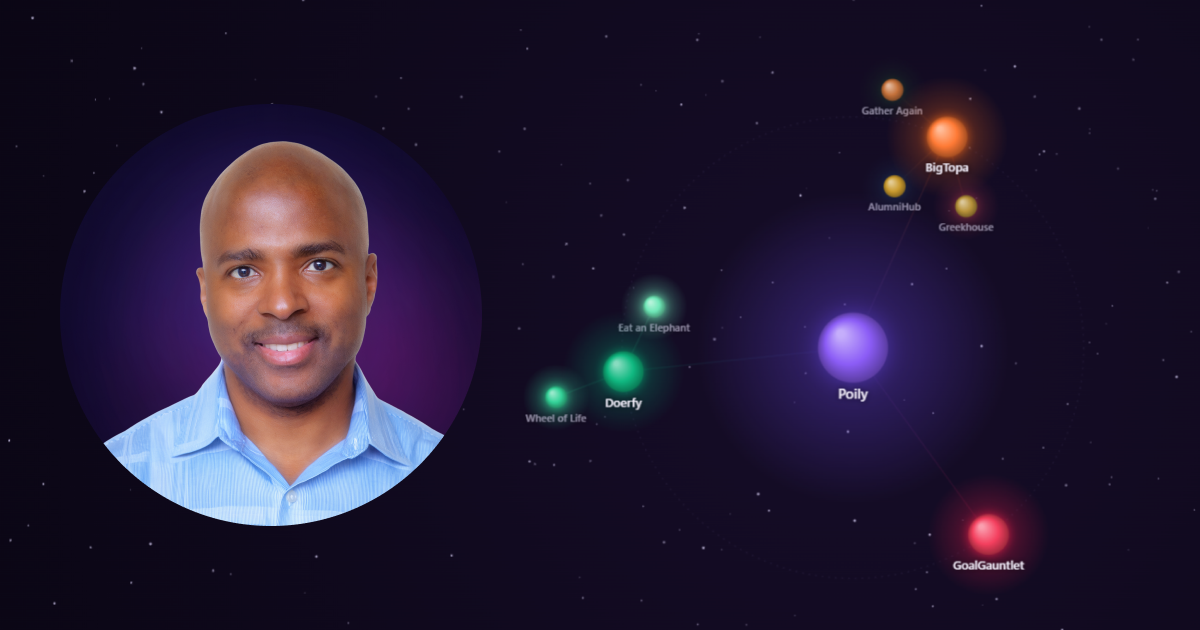
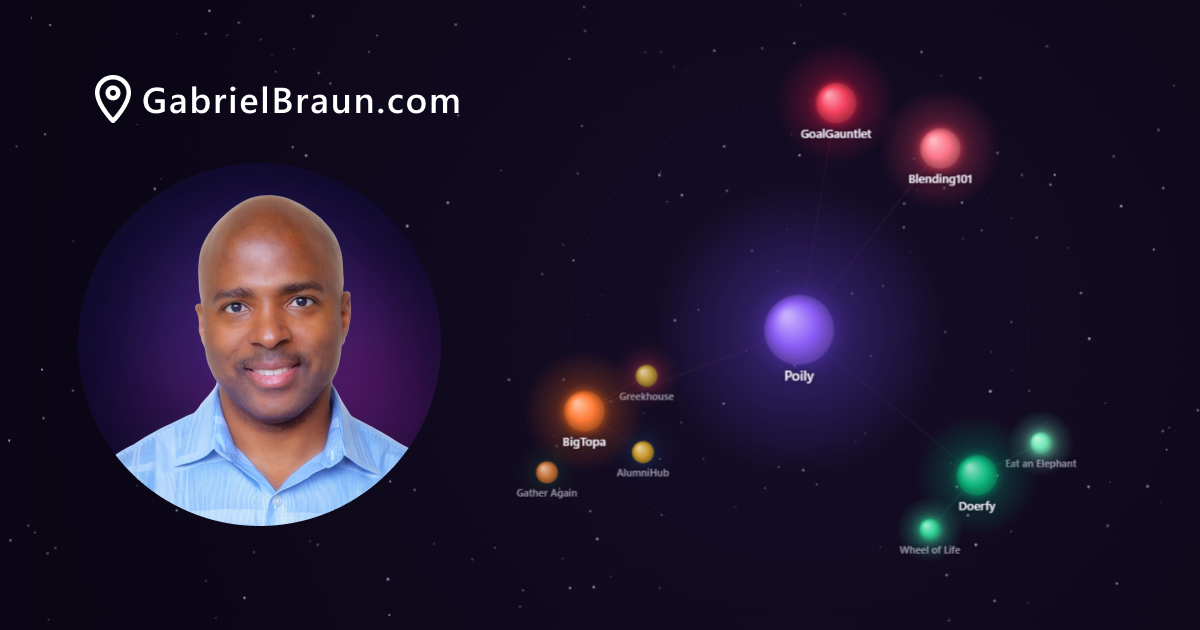
constellation update
animate larger constellation

diff --git a/index.html b/index.html
@@ -241,7 +241,7 @@
     <canvas class="stars" aria-hidden="true"></canvas>
     <div class="wrap">
       <div>
-        <p class="kicker">Portfolio Entrepreneur / Inventor / 3 U.S. Patents</p>
+        <p class="kicker">Portfolio Entrepreneur / Inventor / 3&nbsp;U.S.&nbsp;Patents</p>
         <h1>I design products, build them and take them to market.</h1>
         <p class="lede">Founder of Poily, the go-to-market platform behind Doerfy, BigTopa, GoalGauntlet and Blending101. My craft is data visualization and UI/UX design, together.</p>
         <p class="signature">Delicious UI/UX. Delectable data visualization. <span>AI is the icing.</span></p>
@@ -524,55 +524,133 @@
     if (!canvas || !canvas.getContext) return;
     var ctx = canvas.getContext('2d');
     var hero = canvas.parentNode;
-    var pts = [], w = 0, h = 0, raf = 0, visible = true;
-    var COLORS = ['#f97316', '#8b7cf6', '#2fc98e', '#f0476a'];
+    var portrait = hero.querySelector('.portrait');
+    var stars = [], anchors = [], w = 0, h = 0, raf = 0, visible = true, mobile = false;
+    var PIN = 'M12 2a7 7 0 0 0-7 7c0 5.2 7 13 7 13s7-7.8 7-13a7 7 0 0 0-7-7z';
+    var pinPath = window.Path2D ? new Path2D(PIN) : null;
+    // Poily at the centre, the three brand families around it (same colours as the section pins).
+    var DEFS = [
+      { id: 'poily', c: '#8b7cf6', hub: true },
+      { id: 'productivity', c: '#2fc98e' },
+      { id: 'community', c: '#f97316' },
+      { id: 'health', c: '#f0476a' }
+    ];
+
+    function place() {
+      var hr = hero.getBoundingClientRect();
+      var pr = portrait ? portrait.getBoundingClientRect() : { left: w - 200, top: h / 2 - 80, width: 160, height: 160 };
+      var cx = pr.left - hr.left + pr.width / 2, cy = pr.top - hr.top + pr.height / 2, R = pr.width / 2;
+      var pos;
+      if (mobile) {
+        // empty band to the right of the photo
+        var x0 = cx + R + 22, x1 = w - 22, zw = Math.max(x1 - x0, 90), zx = x0 + zw / 2;
+        pos = [
+          [zx + zw * 0.05, cy],
+          [zx - zw * 0.28, cy - R * 0.62],
+          [zx + zw * 0.36, cy - R * 0.38],
+          [zx + zw * 0.12, cy + R * 0.72]
+        ];
+      } else {
+        // around the photo, never toward the text column on the left
+        function at(ang, dist) { return [cx + Math.cos(ang) * dist, cy + Math.sin(ang) * dist]; }
+        pos = [at(-0.15, R + 120), at(-1.3, R + 52), at(0.35, R + 46), at(1.25, R + 60)];
+      }
+      anchors = DEFS.map(function (d, i) {
+        return {
+          c: d.c, hub: !!d.hub,
+          x: Math.min(Math.max(pos[i][0], 24), w - 24), y: Math.min(Math.max(pos[i][1], 30), h - 24),
+          ph: i * 1.7
+        };
+      });
+    }
 
     function size() {
       var dpr = Math.min(window.devicePixelRatio || 1, 2);
-      w = hero.clientWidth; h = hero.clientHeight;
+      w = hero.clientWidth; h = hero.clientHeight; mobile = w <= 860;
       canvas.width = w * dpr; canvas.height = h * dpr;
       ctx.setTransform(dpr, 0, 0, dpr, 0, 0);
-      var n = Math.round(Math.min(70, Math.max(24, (w * h) / 16000)));
-      pts = [];
+      var n = Math.round(Math.min(70, Math.max(26, (w * h) / 15000)));
+      stars = [];
       for (var i = 0; i < n; i++) {
-        var poi = i < 8;
-        pts.push({
+        stars.push({
           x: Math.random() * w, y: Math.random() * h,
           vx: (Math.random() - 0.5) * 0.16, vy: (Math.random() - 0.5) * 0.16,
-          r: poi ? 2.6 : 1 + Math.random() * 0.8,
-          c: poi ? COLORS[i % 4] : 'rgba(169,165,198,0.55)',
-          poi: poi, ph: Math.random() * 6.28
+          r: 1 + Math.random() * 1.1, a: 0.45 + Math.random() * 0.4
         });
       }
+      place();
+    }
+
+    function hexA(hex, a) {
+      var n = parseInt(hex.slice(1), 16);
+      return 'rgba(' + (n >> 16) + ',' + ((n >> 8) & 255) + ',' + (n & 255) + ',' + a + ')';
+    }
+
+    function drawPin(x, y, s, col) {
+      ctx.save();
+      ctx.translate(x - 12 * s, y - 22 * s);
+      ctx.scale(s, s);
+      ctx.fillStyle = col;
+      if (pinPath) ctx.fill(pinPath);
+      ctx.fillStyle = '#0c0a1c';
+      ctx.beginPath(); ctx.arc(12, 9, 2.6, 0, 6.2832); ctx.fill();
+      ctx.restore();
     }
 
     function draw(t) {
+      t = t || 0;
       ctx.clearRect(0, 0, w, h);
       var i, j, a, b, dx, dy, d, max = 130;
-      for (i = 0; i < pts.length; i++) {
-        a = pts[i];
+      // background stars and their faint links
+      for (i = 0; i < stars.length; i++) {
+        a = stars[i];
         if (!reduceMotion) {
           a.x += a.vx; a.y += a.vy;
           if (a.x < -10) a.x = w + 10; if (a.x > w + 10) a.x = -10;
           if (a.y < -10) a.y = h + 10; if (a.y > h + 10) a.y = -10;
         }
-        for (j = i + 1; j < pts.length; j++) {
-          b = pts[j]; dx = a.x - b.x; dy = a.y - b.y; d = Math.sqrt(dx * dx + dy * dy);
+        for (j = i + 1; j < stars.length; j++) {
+          b = stars[j]; dx = a.x - b.x; dy = a.y - b.y; d = Math.sqrt(dx * dx + dy * dy);
           if (d < max) {
-            ctx.strokeStyle = 'rgba(139,124,246,' + (0.16 * (1 - d / max)).toFixed(3) + ')';
+            ctx.strokeStyle = 'rgba(139,124,246,' + (0.22 * (1 - d / max)).toFixed(3) + ')';
             ctx.lineWidth = 1; ctx.beginPath(); ctx.moveTo(a.x, a.y); ctx.lineTo(b.x, b.y); ctx.stroke();
           }
         }
       }
-      for (i = 0; i < pts.length; i++) {
-        a = pts[i];
-        if (a.poi) {
-          var glow = 7 + Math.sin((t || 0) / 900 + a.ph) * 3;
-          ctx.globalAlpha = 0.18; ctx.fillStyle = a.c;
-          ctx.beginPath(); ctx.arc(a.x, a.y, glow, 0, 6.2832); ctx.fill();
-          ctx.globalAlpha = 1;
+      for (i = 0; i < stars.length; i++) {
+        a = stars[i];
+        ctx.fillStyle = 'rgba(190,186,220,' + a.a.toFixed(2) + ')';
+        ctx.beginPath(); ctx.arc(a.x, a.y, a.r, 0, 6.2832); ctx.fill();
+      }
+      // points of interest: positions bob gently
+      var P = anchors.map(function (n) {
+        var k = reduceMotion ? 0 : 1;
+        return { c: n.c, hub: n.hub, x: n.x + k * Math.sin(t / 2600 + n.ph) * 5, y: n.y + k * Math.cos(t / 3100 + n.ph) * 5, ph: n.ph };
+      });
+      var hub = P[0];
+      for (i = 1; i < P.length; i++) {
+        var g = ctx.createLinearGradient(P[i].x, P[i].y, hub.x, hub.y);
+        g.addColorStop(0, hexA(P[i].c, 0.75)); g.addColorStop(1, hexA(hub.c, 0.75));
+        ctx.strokeStyle = g; ctx.lineWidth = mobile ? 1.2 : 1.5;
+        ctx.beginPath(); ctx.moveTo(P[i].x, P[i].y - (mobile ? 9 : 12)); ctx.lineTo(hub.x, hub.y); ctx.stroke();
+      }
+      var s = mobile ? 0.95 : 1.25;
+      for (i = 0; i < P.length; i++) {
+        a = P[i];
+        var pulse = 1 + (reduceMotion ? 0 : Math.sin(t / 900 + a.ph) * 0.12);
+        var gr = (a.hub ? (mobile ? 26 : 34) : (mobile ? 18 : 24)) * pulse;
+        var gy = a.hub ? a.y : a.y - 10 * s;
+        var rg = ctx.createRadialGradient(a.x, gy, 0, a.x, gy, gr);
+        rg.addColorStop(0, hexA(a.c, 0.55)); rg.addColorStop(1, hexA(a.c, 0));
+        ctx.fillStyle = rg; ctx.beginPath(); ctx.arc(a.x, gy, gr, 0, 6.2832); ctx.fill();
+        if (a.hub) {
+          var r = mobile ? 9 : 12;
+          var sg = ctx.createRadialGradient(a.x - r * 0.35, a.y - r * 0.35, 1, a.x, a.y, r);
+          sg.addColorStop(0, '#d9d2ff'); sg.addColorStop(1, a.c);
+          ctx.fillStyle = sg; ctx.beginPath(); ctx.arc(a.x, a.y, r, 0, 6.2832); ctx.fill();
+        } else {
+          drawPin(a.x, a.y, s, a.c);
         }
-        ctx.fillStyle = a.c; ctx.beginPath(); ctx.arc(a.x, a.y, a.r, 0, 6.2832); ctx.fill();
       }
       if (!reduceMotion && visible) raf = requestAnimationFrame(draw);
     }
@@ -583,6 +661,7 @@
       clearTimeout(timer);
       timer = setTimeout(function () { cancelAnimationFrame(raf); size(); draw(0); }, 150);
     });
+    window.addEventListener('load', function () { place(); if (reduceMotion) draw(0); });
     if ('IntersectionObserver' in window) {
       new IntersectionObserver(function (e) {
         var now = e[0].isIntersecting;
